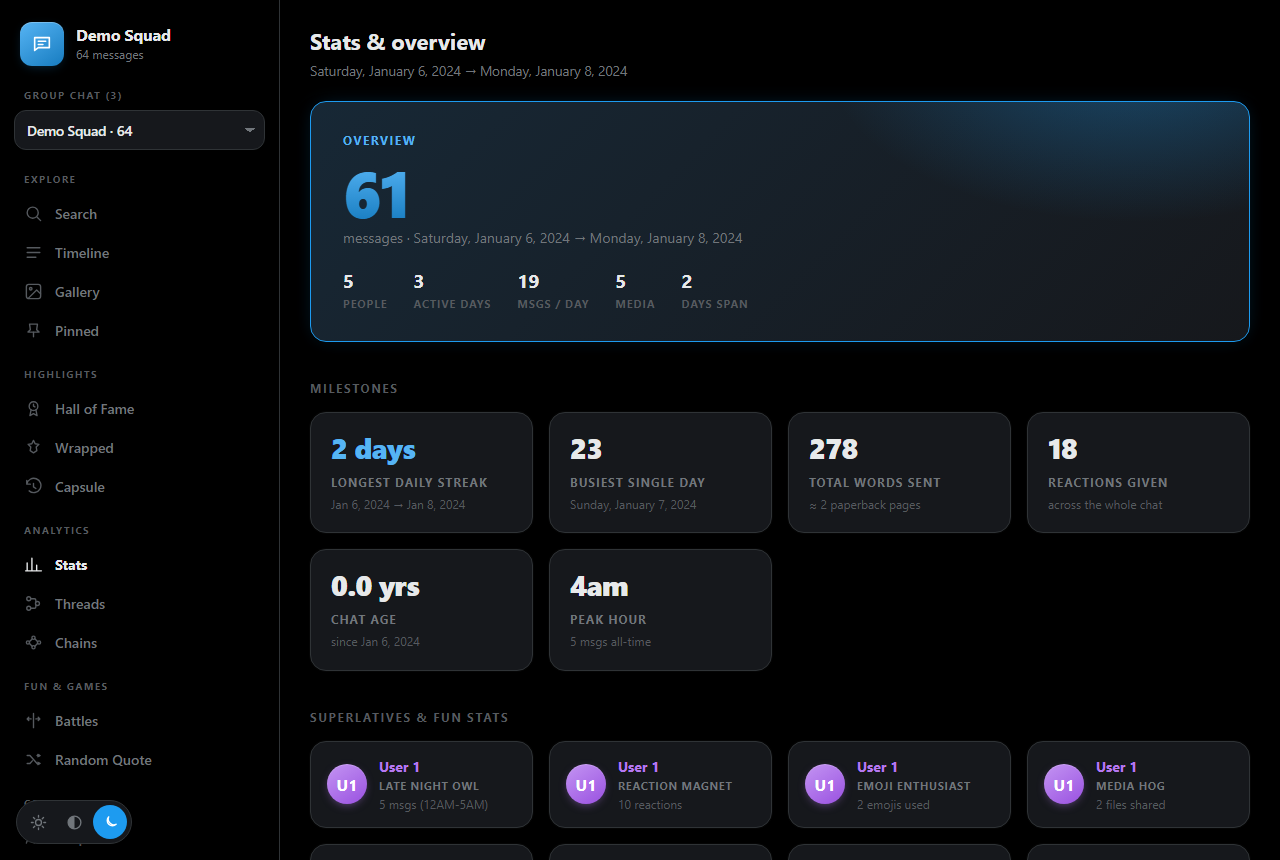
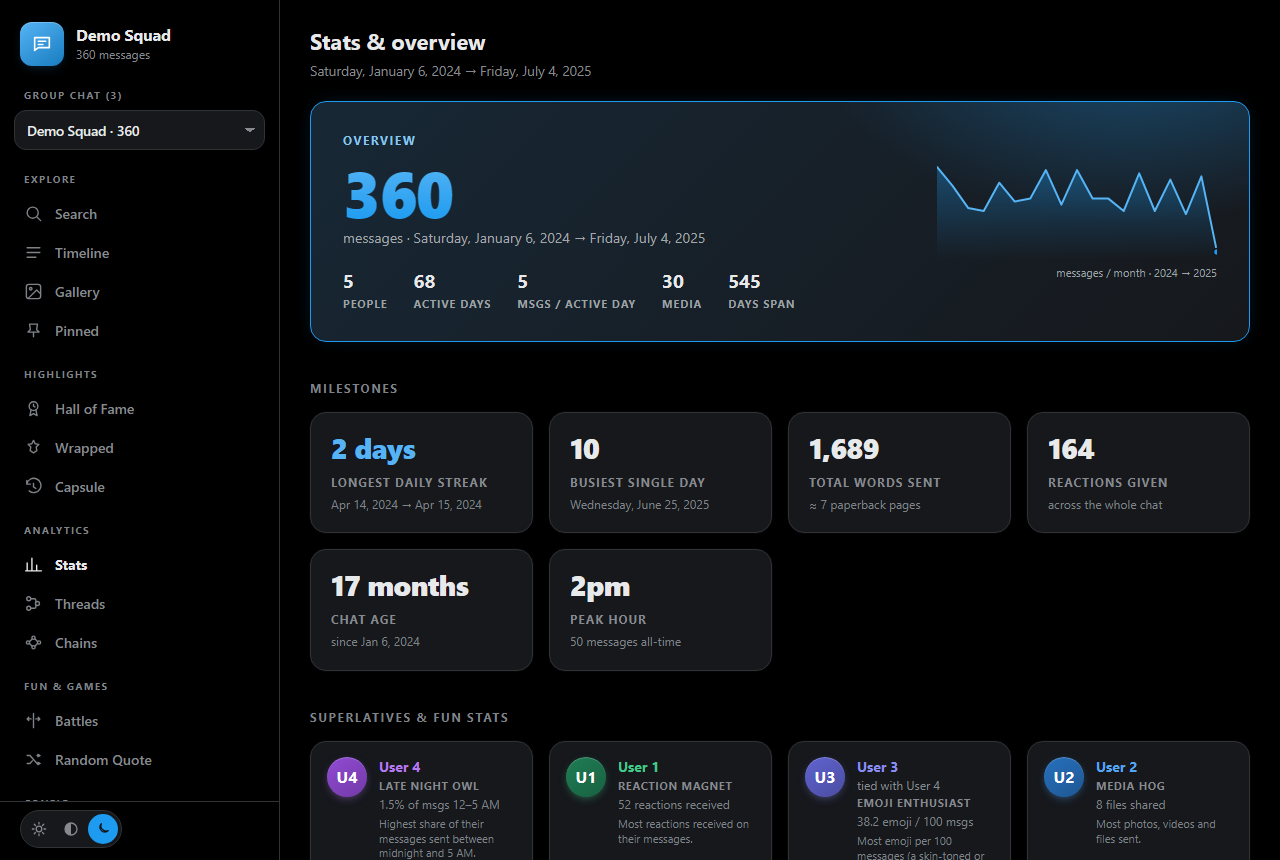
docs(readme): regenerate the screenshots and demo from the sample, add four feature shots
All captured from data.sample.js on a throwaway server (the wizard
preview from the synthetic test export). New shots: search operators
across All chats, the Jump to date calendar, a Share card with Hide
names on, and the merge preview. The walkthrough GIF adds operators and
the calendar.

diff --git a/README.md b/README.md
@@ -15,28 +15,54 @@ internet. Have several group chats? A picker switches between them.
 
 ## Screenshots
 
+All from the synthetic demo data (the wizard preview uses a synthetic test export).
+
 <table>
 <tr>
 <td width="50%">
 
-![Group Chat Archive search view on the default dark Lights-out theme: a fuzzy search for the misspelled "hilarous" highlights the matching text in several "that's hilarious" messages from the synthetic Demo Squad chat](docs/screenshot.png)
+![Search view on the default dark Lights-out theme: a fuzzy search for the misspelled "hilarous" finds no exact match and lists five close matches, highlighting "hilarious" in each "that's hilarious" message from the synthetic Demo Squad chat](docs/screenshot.png)
 
 </td>
 <td width="50%">
 
-![Timeline view showing the synthetic Demo Squad chat with a sticky date pill, a "created the conversation" / "named the group" system event pair, inline reaction chips under several messages, and the day's message thread](docs/screenshot-timeline.png)
+![Search across All chats for "weekend has:reacts after:2024-03": the operators show as removable "Has reactions" and "Since March 2024" chips under the box, and the five exact matches are grouped by chat, Demo Squad first, each group with a "Search only" link](docs/screenshot-search.png)
 
 </td>
 </tr>
 <tr>
 <td width="50%">
 
-![Stats view for the synthetic Demo Squad chat: an overview card with message/people/active-day counts, a milestones row (longest streak, busiest day, total words, reactions given), and the start of the superlatives grid](docs/screenshot-stats.png)
+![Timeline view opened at the start of the synthetic Demo Squad chat: a date pill, the "created the conversation" and "named the group" system events, and messages with reaction chips under them](docs/screenshot-timeline.png)
 
 </td>
 <td width="50%">
 
-![Wrapped year-in-review slideshow opening slide for the synthetic Demo Squad chat, showing a segmented progress bar and a large animated "2024 Wrapped" title over a themed gradient backdrop](docs/screenshot-wrapped.png)
+![The Jump to date calendar over the Timeline: a date box that accepts natural dates, 2024 and 2025 year buttons, month bars sized by message volume with March 2024 selected, and a month of days where days with messages are highlighted](docs/screenshot-calendar.png)
+
+</td>
+</tr>
+<tr>
+<td width="50%">
+
+![Wrapped year-in-review story for 2024 in the synthetic Demo Squad chat: a segmented progress bar, a large "2024 Wrapped" title over an accent-coloured backdrop, and Back, Share and Next buttons](docs/screenshot-wrapped.png)
+
+</td>
+<td width="50%">
+
+![The Share image dialog for a Wrapped ranking slide with "Hide names & photos" ticked: the preview card reads "61 messages from Person A" and ranks Person A, B and C with plain grey discs instead of avatars, above Copy image and Download PNG buttons](docs/screenshot-share.png)
+
+</td>
+</tr>
+<tr>
+<td width="50%">
+
+![Stats view for the synthetic Demo Squad chat: an overview card with 360 messages over a year and a half and a monthly sparkline, a milestones grid (longest streak, busiest day, total words, reactions given, chat age, peak hour) and the start of the superlatives grid](docs/screenshot-stats.png)
+
+</td>
+<td width="50%">
+
+![The setup wizard's preview before merging a newer export into an existing archive, from a synthetic test export: counts of group chats, messages, people, dates and media, what the archive already holds, new messages and group chats to add, and plain warnings, with "Change files" and "Merge into archive" buttons](docs/screenshot-import.png)
 
 </td>
 </tr>
@@ -261,10 +287,11 @@ hand-edit `personal_data/local.js` (`window.LOCAL_NAMES` / `LOCAL_PFPS` /
 
 ## Demo
 
-A quick tour through search, the timeline, the media gallery, Hall of Fame, the
-Wrapped recap, and the stats dashboard (synthetic demo data):
+A quick tour through search (a fuzzy match, then operators across All chats), the
+timeline and its date calendar, the media gallery, Hall of Fame, the Wrapped
+recap, and the stats dashboard (synthetic demo data):
 
-![Animated walkthrough of the Group Chat Archive: typing a fuzzy search, scrolling the virtual timeline, opening the media gallery, Hall of Fame, the Wrapped year-in-review slideshow, and the stats dashboard](docs/demo.gif)
+![Animated walkthrough of the Group Chat Archive on synthetic data: typing the fuzzy search "hilarous", searching All chats with an operator, the Timeline and its Jump to date calendar, the media gallery, Hall of Fame, a few Wrapped 2024 slides, and the Stats dashboard](docs/demo.gif)
 
 ---
 
